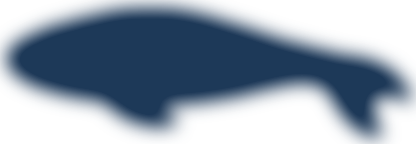
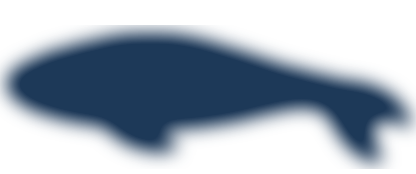
그림자 깜빡임 수정: 헤엄 4동작을 몸통 위치에 맞춰 정렬(위아래 덜컥거림), 자세를 넘길 때 농도를 더해 합침(중간에 흐려졌다 진해짐)
Claude-Session: https://claude.ai/code/session_0142yqQtSepe3ngremP8BMYq

diff --git a/src/render.js b/src/render.js
@@ -336,13 +336,12 @@ function drawShadowPose(ctx, s, name, pose, alpha) {
   if (alpha < 0.01) return;
   const spr = sprite(name), d = POSE[pose];
   const w = s.len * d.span, h = w * spr.h / spr.w;
-  const depth = clamp(s.y / DEEP, 0, 1);
   ctx.save();
   ctx.translate(s.x, WL + s.y);
   ctx.scale(s.face > 0 ? -1 : 1, 1);            // 그림은 왼쪽을 본다
   ctx.rotate(-s.pitch * d.tilt);
   ctx.imageSmoothingEnabled = true;
-  ctx.globalAlpha = lerp(0.8, 0.5, depth) * s.vis * alpha;   // 목표 화면처럼 물빛이 비쳐 보이는 농도
+  ctx.globalAlpha = alpha;                       // 농도는 판을 화면에 얹을 때 한 번에 준다
   ctx.drawImage(spr.img, -w / 2, -h / 2, w, h);
   ctx.restore();
 }
@@ -361,6 +360,8 @@ function drawShadow(ctx, g) {
   b.globalCompositeOperation = 'source-over'; b.globalAlpha = 1;
   b.clearRect(0, 0, cv.width, cv.height);
   b.setTransform(ctx.getTransform());
+  // 자세를 넘길 때 두 그림의 농도를 더해서 합친다: 겹치는 곳은 늘 같은 농도라, 넘어가는 중간에 흐려졌다 진해지며 깜빡이지 않는다
+  b.globalCompositeOperation = 'lighter';
   const one = (pose, alpha) => {
     if (pose !== 'swim') return drawShadowPose(b, s, 'c_shadow_' + pose, pose, alpha);
     // 헤엄: 꼬리 박자에 맞춰 4동작을 이어 넘긴다
@@ -380,10 +381,11 @@ function drawShadow(ctx, g) {
   ctx.save();
   ctx.setTransform(1, 0, 0, 1, 0, 0);
   ctx.globalCompositeOperation = 'multiply';     // 물을 어둡게 물들인다
-  ctx.globalAlpha = 1;
+  const depth = clamp(s.y / DEEP, 0, 1), dens = lerp(0.8, 0.5, depth) * s.vis;   // 목표 화면처럼 물빛이 비쳐 보이는 농도
+  ctx.globalAlpha = dens;
   ctx.drawImage(shadowBuf, 0, 0);
   ctx.globalCompositeOperation = 'source-over';  // 형태가 읽히도록 한 번 더 옅게
-  ctx.globalAlpha = 0.1;
+  ctx.globalAlpha = 0.1 * dens;
   ctx.drawImage(shadowBuf, 0, 0);
   ctx.restore();
 }

diff --git a/tools/build_assets.py b/tools/build_assets.py
@@ -257,6 +257,7 @@ def build():
                 crop.save(OUT / file)
             manifest[item['name']] = dict(file=file, w=round(w, 2), h=round(h, 2), smooth=smooth)
         print(f'{src.name}: {len(items)}개 변환')
+    align_swim(manifest)
     import slice_dots
     problems += slice_dots.dot_sheets(manifest)
     (OUT / 'manifest.json').write_text(json.dumps(dict(sprites=manifest), indent=1, ensure_ascii=False) + '\n')
@@ -293,6 +294,31 @@ def temp_dots(manifest, wpx=44, ncol=8):
             key = f'd_tmp_{name}_{i + 1}'
             Image.fromarray(out).save(OUT / (key + '.png'))
             manifest[key] = dict(file=key + '.png', w=out.shape[1], h=out.shape[0], smooth=False)
+
+
+def align_swim(manifest):
+    """헤엄 4동작을 몸통 위치에 맞춰 같은 크기의 판에 올린다.
+    GPT 그림은 동작마다 꼬리 높이가 달라 그림 크기가 제각각이라, 그림 가운데를 기준으로 넘기면
+    몸통이 위아래로 덜컥거린다. 몸통(앞쪽 20~60% 구간)의 높이 중심을 판의 가운데에 맞춘다."""
+    keys = [f'c_shadow_swim_{i}' for i in range(1, 5)]
+    if not all(k in manifest for k in keys):
+        return
+    ims = [np.array(Image.open(OUT / manifest[k]['file']).convert('RGBA')) for k in keys]
+    cys = []
+    for im in ims:
+        a = im[..., 3] > 40
+        w = a.shape[1]
+        ys, _ = np.nonzero(a[:, int(w * 0.2):int(w * 0.6)])
+        cys.append(ys.mean())
+    half = int(np.ceil(max(max(cy, im.shape[0] - cy) for cy, im in zip(cys, ims)))) + 2
+    W_ = max(im.shape[1] for im in ims)
+    for k, im, cy in zip(keys, ims, cys):
+        canvas = np.zeros((half * 2, W_, 4), np.uint8)
+        top = int(round(half - cy))
+        canvas[top:top + im.shape[0], :im.shape[1]] = im
+        Image.fromarray(canvas).save(OUT / manifest[k]['file'], 'WEBP', quality=88, method=4)
+        scale = manifest[k]['w'] / im.shape[1]                     # 그림 1픽셀이 화면에서 차지하는 크기는 그대로
+        manifest[k]['w'] = round(W_ * scale, 2); manifest[k]['h'] = round(half * 2 * scale, 2)
 
 
 if __name__ == '__main__':
